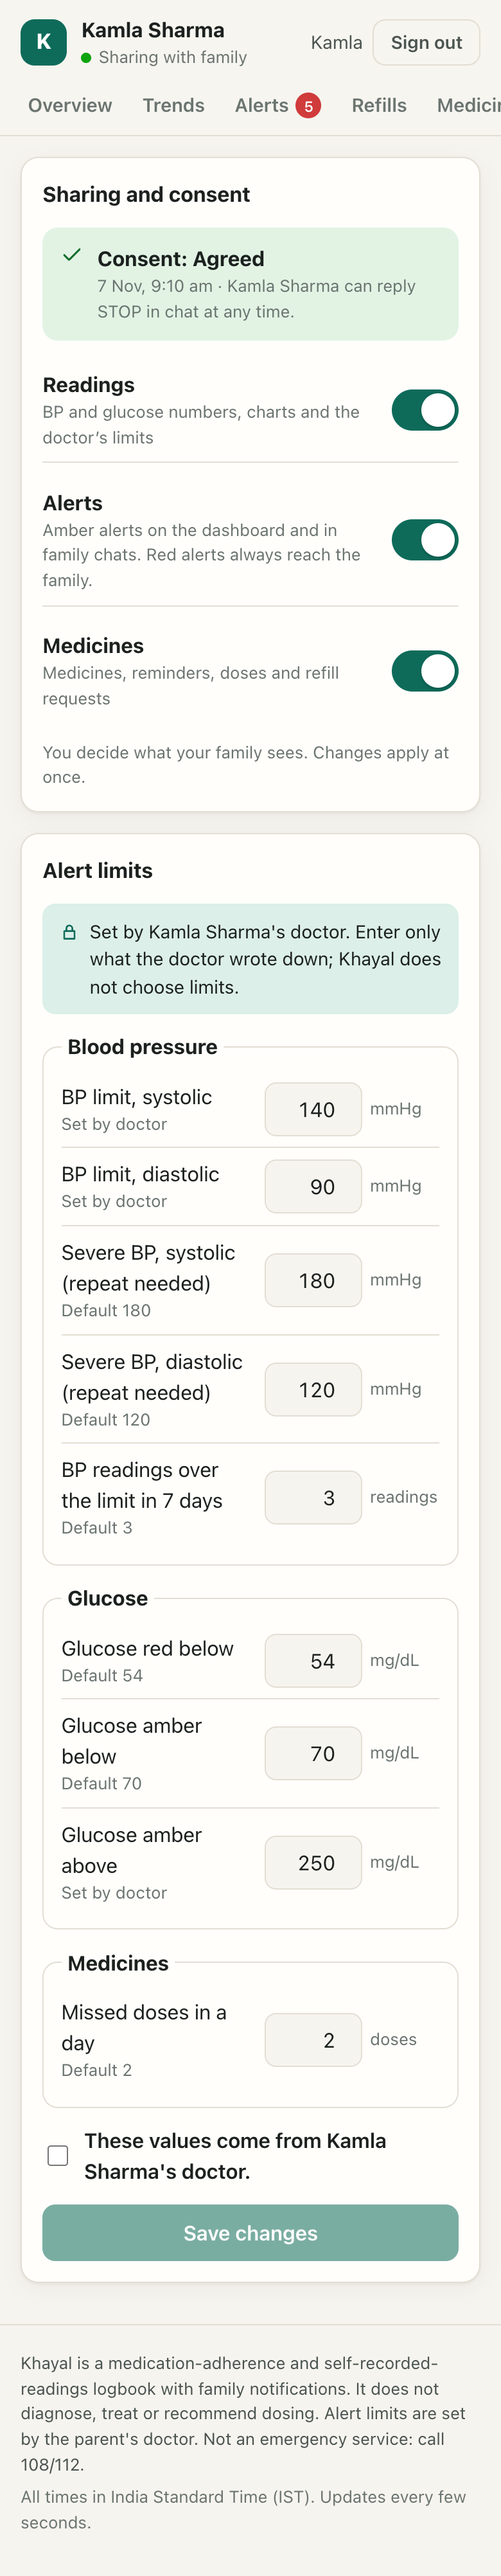
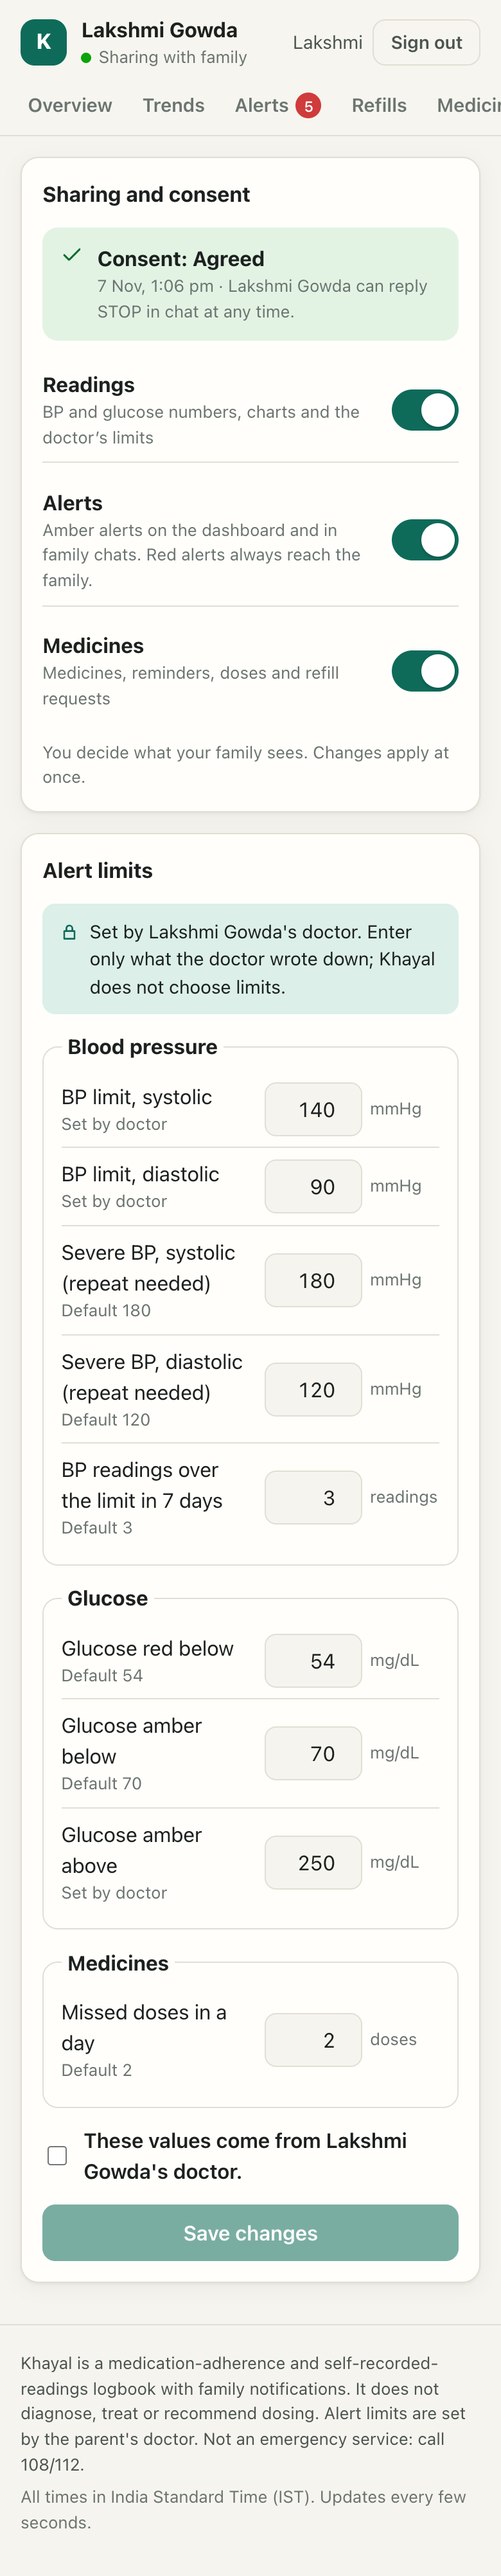
chore(demo): rename demo family to the Gowda family

Changed region(s): [[0.2769, 0.3431, 0.8615, 0.4054], [0.1846, 0.0, 0.3692, 0.0312], [0.6769, 0.8109, 0.7077, 0.8421]]

diff --git a/backend/tests/test_dashboard_api.py b/backend/tests/test_dashboard_api.py
@@ -101,11 +101,11 @@ def test_login_checks_the_demo_token(dash):
         m["name"]
         for m in dash.c.post("/api/login/members", json={"token": TOKEN}).json()["members"]
     ]
-    assert names == ["Priya Sharma", "Ravi Sharma", "Kamla Sharma"]  # children first
+    assert names == ["Priya Gowda", "Ravi Gowda", "Lakshmi Gowda"]  # children first
     bad = dash.c.post("/api/login", json={"token": "wrong", "member_id": dash.ravi.id})
     assert bad.status_code == 401
     me = dash.c.get("/api/me", headers=dash.login(dash.ravi)).json()
-    assert me["member"]["name"] == "Ravi Sharma" and me["parents"][0]["id"] == dash.parent.id
+    assert me["member"]["name"] == "Ravi Gowda" and me["parents"][0]["id"] == dash.parent.id
 
 
 def test_changing_the_demo_token_ends_sessions(dash, monkeypatch):
@@ -135,10 +135,10 @@ def test_acknowledge_alert_is_recorded_once(dash):
     h = dash.login(dash.ravi)
     [alert] = [a for a in dash.c.get("/api/alerts", headers=h).json()["alerts"]][:1]
     first = dash.c.post(f"/api/alerts/{alert['id']}/acknowledge", headers=h).json()
-    assert first["changed"] and first["alert"]["acknowledged_by"] == "Ravi Sharma"
+    assert first["changed"] and first["alert"]["acknowledged_by"] == "Ravi Gowda"
     again = dash.c.post(f"/api/alerts/{alert['id']}/acknowledge", headers=dash.login(dash.priya))
     assert again.json()["changed"] is False
-    assert again.json()["alert"]["acknowledged_by"] == "Ravi Sharma"
+    assert again.json()["alert"]["acknowledged_by"] == "Ravi Gowda"
     assert dash.store.list_audit(tool="dashboard:acknowledge_alert")[0].actor == "member"
 
 
@@ -154,7 +154,7 @@ def test_approve_records_member_sends_to_demo_pharmacy_and_tells_parent(dash):
     out = dash.c.post(f"/api/refills/{refill.id}/approve", headers=h).json()
     assert out["changed"] is True
     assert out["refill"]["status"] == "sent_to_pharmacy"
-    assert out["refill"]["decided_by"] == "Ravi Sharma" and out["refill"]["decided_at"]
+    assert out["refill"]["decided_by"] == "Ravi Gowda" and out["refill"]["decided_at"]
     assert "demo, no real order" in out["refill"]["pharmacy"]
     stored = dash.store.get_refill(refill.id)
     assert stored.decided_by_member_id == dash.ravi.id and stored.pharmacy_ref.startswith("DEMO-")
@@ -163,7 +163,7 @@ def test_approve_records_member_sends_to_demo_pharmacy_and_tells_parent(dash):
     assert any(
         "Refill approved" in t and "pharmacy will confirm" in t for t in dash.feed(dash.parent)
     )
-    assert any("Ravi Sharma approved" in t for t in dash.feed(dash.priya))
+    assert any("Ravi Gowda approved" in t for t in dash.feed(dash.priya))
     actors = {(e.tool, e.actor) for e in dash.store.list_audit()}
     assert ("dashboard:approve_refill", "member") in actors
     assert ("pharmacy:demo_order", "system") in actors
@@ -175,7 +175,7 @@ def test_double_approval_is_safe(dash):
     second = dash.c.post(f"/api/refills/{refill.id}/approve", headers=dash.login(dash.priya))
     assert first.json()["changed"] is True
     assert second.status_code == 200 and second.json()["changed"] is False
-    assert second.json()["refill"]["decided_by"] == "Ravi Sharma"  # first click wins
+    assert second.json()["refill"]["decided_by"] == "Ravi Gowda"  # first click wins
     assert len(dash.store.list_audit(tool="dashboard:approve_refill")) == 1
     parent_msgs = [t for t in dash.feed(dash.parent) if "Refill approved" in t]
     assert len(parent_msgs) == 1  # the parent is told once
@@ -214,11 +214,11 @@ def test_only_the_parent_changes_sharing(dash):
     url = f"/api/parents/{dash.parent.id}/sharing"
     body = {"readings": True, "alerts": True, "medicines": False}
     child = dash.c.put(url, json=body, headers=dash.login(dash.ravi))
-    assert child.status_code == 403 and "Only Kamla" in child.json()["detail"]
+    assert child.status_code == 403 and "Only Lakshmi" in child.json()["detail"]
     parent = dash.c.put(url, json=body, headers=dash.login(dash.parent))
     assert parent.status_code == 200
     assert parent.json()["categories"]["medicines"] is False
-    assert parent.json()["updated_by"] == "Kamla Sharma"
+    assert parent.json()["updated_by"] == "Lakshmi Gowda"
 
 
 def test_child_sees_only_shared_categories(dash):
@@ -342,7 +342,7 @@ def test_thresholds_are_labelled_and_updated_as_doctor_set(dash):
     row = next(t for t in put.json()["thresholds"] if t["rule"] == "bp_limit_systolic")
     assert (row["value"], row["set_by"]) == (135, "doctor")
     [entry] = dash.store.list_audit(tool="dashboard:update_thresholds")
-    assert entry.actor == "member" and "Ravi Sharma" in entry.args_json
+    assert entry.actor == "member" and "Ravi Gowda" in entry.args_json
 
 
 @pytest.mark.parametrize(

diff --git a/backend/tests/test_conversation.py b/backend/tests/test_conversation.py
@@ -44,12 +44,12 @@ class World:
     def __init__(self, reader: Reader | None = None, consent: str = "granted", agent=None):
         self.store = SQLiteStore(":memory:")
         self.clock = Clock()
-        fam = self.store.add_family(Family(name="Sharma"))
+        fam = self.store.add_family(Family(name="Gowda"))
         self.parent = self.store.add_member(
             Member(
                 family_id=fam.id,
                 role="parent",
-                name="Kamla",
+                name="Lakshmi",
                 channel="simulator",
                 channel_ref=PARENT,
                 consent_status=consent,
@@ -146,9 +146,9 @@ def test_no_consent_only_the_notice_is_sent_and_photos_are_not_read():
     spy = SpyReader(meter=MeterReading(device_type="bp", systolic=140, diastolic=90, legible=True))
     w = World(reader=spy, consent="pending")
     reply = w.say(photo="synthetic_bp_normal.jpg")
-    assert reply == tpl.CONSENT_NOTICE.format(name="Kamla")
+    assert reply == tpl.CONSENT_NOTICE.format(name="Lakshmi")
     assert spy.calls == 0 and w.readings() == []
-    assert w.say("what is my bp?") == tpl.CONSENT_NOTICE.format(name="Kamla")
+    assert w.say("what is my bp?") == tpl.CONSENT_NOTICE.format(name="Lakshmi")
 
 
 def test_consent_yes_records_status_time_and_version():
@@ -179,7 +179,7 @@ def test_stop_discards_an_unconfirmed_reading(w):
 
 def test_revoked_parent_sees_consent_notice_again():
     w = World(consent="revoked")
-    assert w.say("142/88") == tpl.CONSENT_NOTICE.format(name="Kamla")
+    assert w.say("142/88") == tpl.CONSENT_NOTICE.format(name="Lakshmi")
     assert w.readings() == []
 
 
@@ -352,7 +352,7 @@ def test_repeat_bp_flow_ends_in_red_alert(w):
     assert reply.startswith(tpl.RED_REPEAT.format(value="186/122, pulse 92"))
     assert "I have told your family." in reply and tpl.EMERGENCY in reply
     family = w.to_family(out)
-    assert len(family) == 2 and all(t.startswith("RED alert for Kamla") for t in family)
+    assert len(family) == 2 and all(t.startswith("RED alert for Lakshmi") for t in family)
     assert all("108/112" in t for t in family)
     assert [a.level for a in w.store.list_alerts(w.parent.id)] == ["red"]
     assert w.state.state == IDLE
@@ -386,7 +386,7 @@ def test_no_repeat_in_15_minutes_sends_amber_to_family(w):
     family = w.to_family(out)
     assert len(family) == 2
     for text in family:
-        assert text.startswith("AMBER alert for Kamla: BP 186/122 at ")
+        assert text.startswith("AMBER alert for Lakshmi: BP 186/122 at ")
         assert "No repeat reading was taken within 15 minutes." in text
         assert "rest" not in text.lower() and "please" not in text.lower()  # no parent wording
     assert [(a.level, a.reason) for a in w.store.list_alerts(w.parent.id)][0][0] == "amber"
@@ -396,7 +396,7 @@ def test_no_repeat_in_15_minutes_sends_amber_to_family(w):
     w.clock.advance(4)  # 20 minutes after the first: still severe -> red
     w.say(photo="synthetic_bp_high.jpg")
     out = w.send("1")
-    assert all(t.startswith("RED alert for Kamla") for t in w.to_family(out))
+    assert all(t.startswith("RED alert for Lakshmi") for t in w.to_family(out))
     assert sorted(a.level for a in w.store.list_alerts(w.parent.id)) == ["amber", "red"]
 
 

diff --git a/backend/tests/test_scheduler.py b/backend/tests/test_scheduler.py
@@ -44,12 +44,12 @@ class World:
     def __init__(self, language: str = "hi"):
         self.store = SQLiteStore(":memory:")
         _STORE.append(self.store)
-        fam = self.store.add_family(Family(name="Sharma"))
+        fam = self.store.add_family(Family(name="Gowda"))
         self.parent = self.store.add_member(
             Member(
                 family_id=fam.id,
                 role="parent",
-                name="Kamla",
+                name="Lakshmi",
                 channel="simulator",
                 channel_ref=PARENT,
                 language=language,
@@ -236,7 +236,7 @@ def test_two_missed_doses_send_one_amber_alert(w):
     w.run()  # Telma + Glycomet missed -> 2 today
     amber = [t for t in w.texts(CHILD) if t.startswith("AMBER alert")]
     assert amber == [
-        "AMBER alert for Kamla: 2 medicine reminders were marked missed on "
+        "AMBER alert for Lakshmi: 2 medicine reminders were marked missed on "
         + set_clock("08:30").strftime("%d %b")
         + "."
     ]
@@ -269,7 +269,7 @@ def test_low_stock_requests_refill_through_mcp_never_approves(w):
     assert refill.status == "pending_approval" and refill.qty == 30
     assert ("agent", "request_refill") in w.tools()
     assert not any("approve" in tool for _, tool in w.tools())
-    assert any("Refill request for Kamla: Telma 40 x30" in t for t in w.texts(CHILD))
+    assert any("Refill request for Lakshmi: Telma 40 x30" in t for t in w.texts(CHILD))
     parent_msg = w.feed(PARENT)[-1]
     assert "running low" in parent_msg.text and parent_msg.voice
     set_clock("10:05")
@@ -314,7 +314,7 @@ def test_weekly_summary_goes_to_family_on_sunday_evening_once(w):
     w.run()
     set_clock("19:30", day)
     w.run()
-    summaries = [x for x in w.texts(CHILD) if x.startswith("Weekly summary for Kamla")]
+    summaries = [x for x in w.texts(CHILD) if x.startswith("Weekly summary for Lakshmi")]
     assert len(summaries) == 1
     assert ("agent", "weekly_summary") in w.tools()
 

diff --git a/backend/tests/test_voice.py b/backend/tests/test_voice.py
@@ -125,7 +125,7 @@ def test_spoken_reading_still_gets_the_read_back(w):
     w.svc.handle("simulator", Ev(voice_sample="bp_reading_en"))
     reply = w.feed(PARENT)[-1]
     assert reply.text.startswith("I read 142/88") and "correct?" in reply.text
-    assert reply.voice and "ऊपर 142, नीचे 88" in reply.voice_text  # Kamla speaks Hindi
+    assert reply.voice and "ऊपर 142, नीचे 88" in reply.voice_text  # Lakshmi speaks Hindi
     [reading] = w.store.list_readings(w.parent.id)
     assert reading.status == "unconfirmed" and reading.source == "voice"
     voice_in = [i for i in w.sim.feed(PARENT) if i.direction == "in"][-1]
@@ -344,8 +344,8 @@ def test_confirmed_red_reading_rings_the_family(w, calls_on):
     w.svc.flush_outbox()
     [card] = [i for i in w.feed(CHILD) if i.kind == "voice_call"]
     assert card.voice and card.voice_mock and card.voice_lang == "en"
-    assert card.text.startswith("This is Khayal with an urgent alert about Kamla.")
-    assert "190/124" in card.text and card.text.endswith("Please call Kamla now.")
+    assert card.text.startswith("This is Khayal with an urgent alert about Lakshmi.")
+    assert "190/124" in card.text and card.text.endswith("Please call Lakshmi now.")
     assert "If you feel unwell" not in card.text  # parent wording stays out of the call
     assert any(t.startswith("RED alert") for t in w.texts(CHILD))
 
@@ -396,7 +396,7 @@ def test_twilio_call_only_dials_registered_twilio_numbers():
         channel="twilio",
         channel_ref="whatsapp:+919811112222",
     )
-    assert provider.call(real, Voice(text="Call Kamla now", lang="hi"), "/voice/abc.mp3", False)
+    assert provider.call(real, Voice(text="Call Lakshmi now", lang="hi"), "/voice/abc.mp3", False)
     form = dict(httpx.QueryParams(fake.requests[0].content.decode()))
     assert form["To"] == "+919811112222" and form["From"] == "+14155550100"
     assert form["Twiml"] == "<Response><Play>https://demo.example/voice/abc.mp3</Play></Response>"

diff --git a/scripts/chat_demo.py b/scripts/chat_demo.py
@@ -1,6 +1,6 @@
 """Try the parent conversation in the terminal (the web simulator is at /simulator).
 
-Uses a throwaway in-memory database with one parent (Kamla, consent not yet given) and two
+Uses a throwaway in-memory database with one parent (Lakshmi, consent not yet given) and two
 children, so it never touches your local DB. Because the DB lives in this process, the MCP
 server runs in-process here too; the API uses the real MCP server over HTTP.
 
@@ -62,8 +62,8 @@ DEMO_SCRIPT = [
 class Chat:
     def __init__(self, reader_name: str) -> None:
         self.store = SQLiteStore(":memory:")
-        fam = self.store.add_family(Family(name="Sharma"))
-        people = [("parent", "Kamla", PARENT_REF), ("child", "Ravi", "+919800000002"),
+        fam = self.store.add_family(Family(name="Gowda"))
+        people = [("parent", "Lakshmi", PARENT_REF), ("child", "Ravi", "+919800000002"),
                   ("child", "Priya", "+919800000003")]  # fmt: skip
         for role, name, ref in people:
             self.store.add_member(
@@ -114,13 +114,13 @@ def main(argv: list[str] | None = None) -> int:
     chat = Chat(args.reader)
     if args.demo:
         for line in DEMO_SCRIPT:
-            print(f"Kamla> {line}")
+            print(f"Lakshmi> {line}")
             chat.run(line)
         return 0
     print(__doc__.split("Commands:")[1].strip(), "\n")
     while True:
         try:
-            line = input("Kamla> ")
+            line = input("Lakshmi> ")
         except (EOFError, KeyboardInterrupt):
             return 0
         if line.strip() in ("/quit", "/exit"):

diff --git a/backend/tests/test_twilio.py b/backend/tests/test_twilio.py
@@ -151,12 +151,12 @@ def test_rate_limit_one_message_per_3_seconds():
 
 def test_outside_24h_window_uses_the_sandbox_template_or_is_not_sent():
     fake = FakeTwilio()
-    alert = Outgoing(channel="twilio", to_ref=CHILD, member_id="c", text="RED alert for Kamla: x")
+    alert = Outgoing(channel="twilio", to_ref=CHILD, member_id="c", text="RED alert for Lakshmi: x")
     assert channel(fake).deliver(alert) is None and fake.messages == []
     channel(fake, template_sid="HXabc").deliver(alert)
     [sent] = fake.messages
     assert "Body" not in sent and sent["ContentSid"] == "HXabc"
-    assert json.loads(sent["ContentVariables"])["1"] == "RED alert for Kamla"
+    assert json.loads(sent["ContentVariables"])["1"] == "RED alert for Lakshmi"
     assert template_variables("Saved")["1"] == "Khayal update"
 
 
@@ -193,7 +193,7 @@ def test_webhook_rejects_bad_signature_and_handles_good_one(monkeypatch):
         bodies = [m["Body"] for m in fake.messages]
         assert bodies[0].startswith("I read sugar 45 mg/dL")
         assert "I have told your family." in bodies[1]
-        assert svc.simulator.feed(child.channel_ref)[-1].text.startswith("RED alert for Kamla")
+        assert svc.simulator.feed(child.channel_ref)[-1].text.startswith("RED alert for Lakshmi")
     finally:
         get_settings.cache_clear()
 

diff --git a/scripts/seed_demo.py b/scripts/seed_demo.py
@@ -46,12 +46,12 @@ def seed(store: Store, now: datetime | None = None, rng_seed: int = 7) -> dict[s
     now = (now or datetime.now(IST)).astimezone(IST)
     consent_at = now - timedelta(days=DAYS + 2)
 
-    family = store.add_family(Family(name="Sharma family"))
+    family = store.add_family(Family(name="Gowda family"))
     parent = store.add_member(
         Member(
             family_id=family.id,
             role="parent",
-            name="Kamla Sharma",
+            name="Lakshmi Gowda",
             channel="simulator",
             channel_ref=PARENT_REF,
             language="en",
@@ -72,7 +72,7 @@ def seed(store: Store, now: datetime | None = None, rng_seed: int = 7) -> dict[s
                 consent_at=consent_at,
             )
         )
-        for name, ref in zip(("Ravi Sharma", "Priya Sharma"), CHILD_REFS, strict=True)
+        for name, ref in zip(("Ravi Gowda", "Priya Gowda"), CHILD_REFS, strict=True)
     ]
 
     # Doctor-set limits (same values as the defaults, but labelled "set by your doctor").

diff --git a/backend/app/demo.py b/backend/app/demo.py
@@ -9,7 +9,7 @@ from app.storage.base import Store
 from app.storage.models import Family, Member
 
 PARENT_REF = "+919800000001"
-CHILDREN = (("Ravi Sharma", "+919800000002"), ("Priya Sharma", "+919800000003"))
+CHILDREN = (("Ravi Gowda", "+919800000002"), ("Priya Gowda", "+919800000003"))
 DOCTOR_LIMITS = (
     ("bp_limit_systolic", 140),
     ("bp_limit_diastolic", 90),
@@ -18,13 +18,13 @@ DOCTOR_LIMITS = (
 
 
 def seed_fresh_family(store: Store) -> Member:
-    """Sharma family on the simulator channel; returns the parent (consent pending)."""
-    family = store.add_family(Family(name="Sharma family"))
+    """Gowda family on the simulator channel; returns the parent (consent pending)."""
+    family = store.add_family(Family(name="Gowda family"))
     parent = store.add_member(
         Member(
             family_id=family.id,
             role="parent",
-            name="Kamla Sharma",
+            name="Lakshmi Gowda",
             channel="simulator",
             channel_ref=PARENT_REF,
             language="en",

diff --git a/backend/tests/test_simulator.py b/backend/tests/test_simulator.py
@@ -86,7 +86,7 @@ def test_golden_path_in_mock_mode(sim):
     s = say(sim, "1")
     assert last_reply(s).startswith(tpl.RED_REPEAT.format(value="186/122, pulse 92"))
     for texts in child_texts(s):
-        assert len(texts) == 1 and texts[0].startswith("RED alert for Kamla Sharma")
+        assert len(texts) == 1 and texts[0].startswith("RED alert for Lakshmi Gowda")
     assert "alert_family" in tools_called(s)
     assert any(i["direction"] == "note" for i in s["children"][0]["feed"])  # "5 minutes later"
 
@@ -110,7 +110,7 @@ def test_no_repeat_for_15_minutes_sends_amber_to_children(sim):
     s = state(sim)
     assert last_reply(s) == tpl.NO_REPEAT_FAMILY_TOLD.format(value="186/122, pulse 92")
     for texts in child_texts(s):
-        assert len(texts) == 1 and texts[0].startswith("AMBER alert for Kamla Sharma: BP 186/122")
+        assert len(texts) == 1 and texts[0].startswith("AMBER alert for Lakshmi Gowda: BP 186/122")
         assert "rest" not in texts[0].lower()
 
 

diff --git a/backend/tests/test_mcp_http.py b/backend/tests/test_mcp_http.py
@@ -22,12 +22,12 @@ PARENT = "+919800000001"
 
 def make_store() -> tuple[SQLiteStore, Member]:
     store = SQLiteStore(":memory:")
-    fam = store.add_family(Family(name="Sharma"))
+    fam = store.add_family(Family(name="Gowda"))
     parent = store.add_member(
         Member(
             family_id=fam.id,
             role="parent",
-            name="Kamla",
+            name="Lakshmi",
             channel="simulator",
             channel_ref=PARENT,
             consent_status="granted",
@@ -63,7 +63,7 @@ def test_conversation_alerts_family_through_mcp_over_http():
 
     out = over_http(store, check)
     family = [o.text for o in out if o.member_id != parent.id]
-    assert len(family) == 1 and family[0].startswith("RED alert for Kamla")
+    assert len(family) == 1 and family[0].startswith("RED alert for Lakshmi")
     [entry] = store.list_audit(tool="alert_family")
     assert entry.parent_id == parent.id  # identity came from _meta over HTTP
 

diff --git a/backend/tests/test_storage.py b/backend/tests/test_storage.py
@@ -26,12 +26,12 @@ def store():
 
 @pytest.fixture
 def parent(store):
-    fam = store.add_family(Family(name="Sharma"))
+    fam = store.add_family(Family(name="Gowda"))
     return store.add_member(
         Member(
             family_id=fam.id,
             role="parent",
-            name="Kamla",
+            name="Lakshmi",
             channel="simulator",
             channel_ref="+911111111111",
         )
@@ -47,7 +47,7 @@ def test_path_from_url():
 
 def test_family_and_member_roundtrip(store, parent):
     assert store.get_member(parent.id) == parent
-    assert store.get_family(parent.family_id).name == "Sharma"
+    assert store.get_family(parent.family_id).name == "Gowda"
     child = store.add_member(
         Member(
             family_id=parent.family_id,

diff --git a/backend/tests/test_chat_demo.py b/backend/tests/test_chat_demo.py
@@ -13,8 +13,8 @@ def test_scripted_demo_reaches_red_alert_and_reminder(capsys):
     assert chat_demo.main(["--demo", "--reader", "mock"]) == 0
     out = capsys.readouterr().out
     assert "Reply 1 (Haan / Yes) to agree" in out
-    assert "[to Ravi] RED alert for Kamla" in out
-    assert out.index("[to Ravi] RED alert") < out.index("[to Ravi] AMBER alert for Kamla: BP")
+    assert "[to Ravi] RED alert for Lakshmi" in out
+    assert out.index("[to Ravi] RED alert") < out.index("[to Ravi] AMBER alert for Lakshmi: BP")
     assert "No repeat reading was taken within 15 minutes" in out
     assert "Telma 40 = Telmisartan 40 mg. Remind at 8 PM?" in out
     assert out.rstrip().endswith("I can only help with readings and medicines.")
